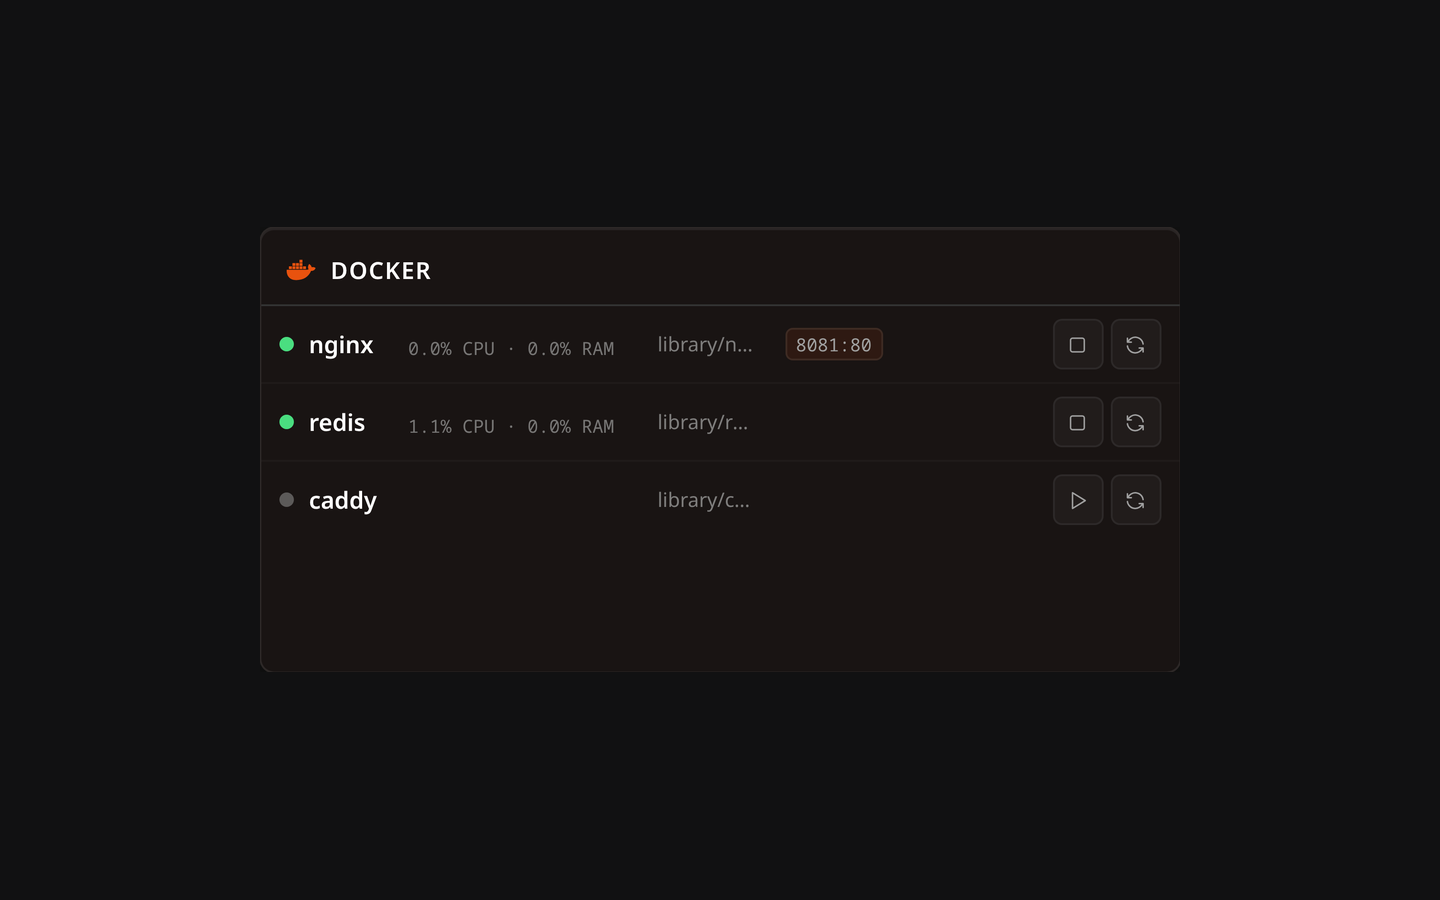
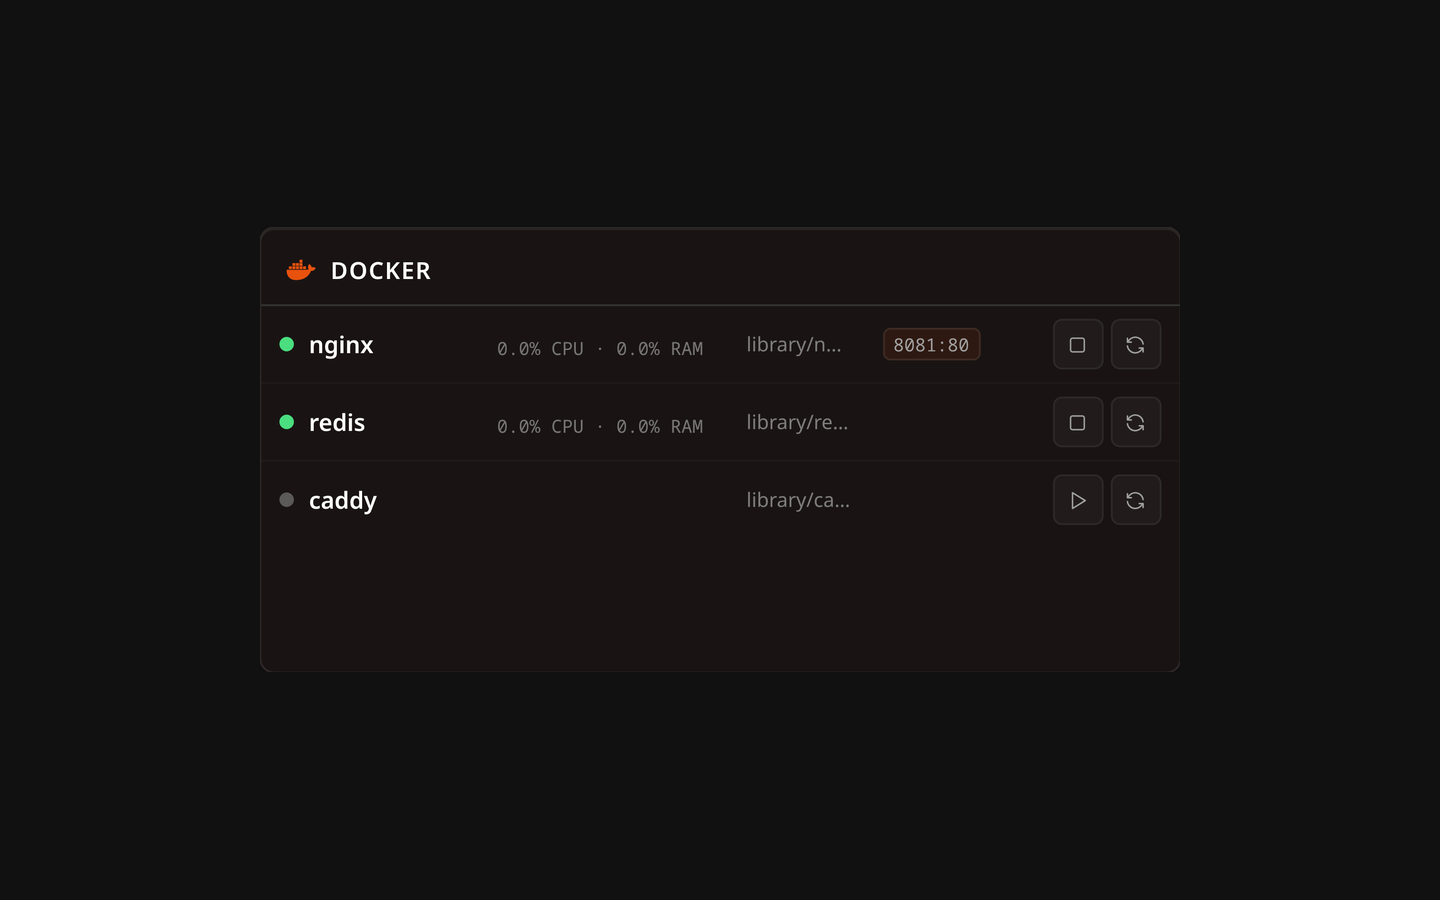
fix(docker): the ports column takes what it needs and the name keeps the rest
The ports column was a fixed 110px, wide enough for the worst case of two
badges and a counter, and every row paid for it — including the many containers
that publish no ports at all. Meanwhile the container's name, the part anyone
actually reads, was the narrowest flexible column at 1.5fr against the image's
2fr, and arrived as "pap…" where the image still managed "library/n…".

The column is now measured after each render: the widest ports cell in the list,
floored at one badge so it never disappears and capped at 120px so two long
mappings cannot eat the name. Every row shares the one value, or the columns
stop lining up. The name and the image swap emphasis, 2fr against 1.4fr.

At most two badges stay on the row, as before, and the counter that stands for
the rest now names them on hover — a "+3" that will not say which three is only
a smaller way of hiding them.

Subgrid expresses this directly and was tried first. The rows carry horizontal
padding and a subgrid's tracks are positioned by its parent, so every cell
landed 10px left of its track and the name sat on top of the state dot.

diff --git a/web/src/widgets/core/DockerWidget.ts b/web/src/widgets/core/DockerWidget.ts
@@ -147,10 +147,25 @@ const CSS = `
 
 /* ── Container rows — CSS Grid layout ── */
 /* Same shape as the monitor widget's rows: a dot for state, then the name.
-   The two sit side by side on a dashboard, so they are read together. */
+   The two sit side by side on a dashboard, so they are read together.
+
+   The ports column is --ports-w, measured after each render: the widest ports
+   cell in the list, floored at one badge and capped so it can never take the
+   name's room. As a fixed 110px it charged every row for the worst case, and
+   most lists never pay it — plenty of containers publish nothing at all.
+
+   Every row must agree on the width or the columns stop lining up, which is why
+   this is one measured value rather than per-row content sizing. Subgrid would
+   express it directly and was tried; the rows carry horizontal padding, and a
+   subgrid's tracks are positioned by the parent, so the padding pushed every
+   cell 10px left of its track and the name landed on top of the state dot.
+
+   The name is also the widest flexible column now. It used to be 1.5fr against
+   the image's 2fr, so the part people read was narrower than the part they
+   don't — the image is abbreviated to library/n... either way. */
 .container-row {
     display: grid;
-    grid-template-columns: 8px minmax(0, 1.5fr) 130px minmax(0, 2fr) 110px 90px;
+    grid-template-columns: 8px minmax(0, 2fr) 130px minmax(0, 1.4fr) var(--ports-w, 56px) 90px;
     align-items: center;
     gap: 0 8px;
     padding: 7px 10px;
@@ -261,7 +276,8 @@ const CSS = `
 .cell-ports {
     display: flex; flex-wrap: nowrap; gap: 3px;
     align-items: center; min-width: 0;
-    overflow: hidden; padding-right: 8px;
+    overflow: hidden;
+    /* No padding of its own: the grid's column gap already separates it. */
 }
 .port-badge {
     background: var(--surface-hover, rgba(128,128,128,0.08));
@@ -710,18 +726,21 @@ class DockerWidget extends HTMLElement {
             }
         }
 
+        const label = (p: DockerPort) => (p.PrivatePort && p.PrivatePort !== p.PublicPort
+            ? `${p.PublicPort}:${p.PrivatePort}`
+            : `${p.PublicPort}`);
+
+        // Two at most on the row. Any more would push the column wide enough to
+        // start costing the container's name, which is the part being read.
         const show = unique.slice(0, 2);
-        const rest = unique.length - show.length;
+        const hidden = unique.slice(2);
 
-        const badges = show.map(p => {
-            const label = p.PrivatePort && p.PrivatePort !== p.PublicPort
-                ? `${p.PublicPort}:${p.PrivatePort}`
-                : `${p.PublicPort}`;
-            return `<span class="port-badge">${esc(label)}</span>`;
-        }).join('');
+        const badges = show.map(p => `<span class="port-badge">${esc(label(p))}</span>`).join('');
 
-        const moreBadge = rest > 0
-            ? `<span class="port-badge more">+${rest}</span>`
+        // The rest are counted, and named on hover — a "+3" that will not say
+        // which three is just a smaller way of hiding them.
+        const moreBadge = hidden.length > 0
+            ? `<span class="port-badge more" title="${esc(hidden.map(label).join(', '))}">+${hidden.length}</span>`
             : '';
 
         return badges + moreBadge;
@@ -810,6 +829,27 @@ class DockerWidget extends HTMLElement {
         `;
 
         this.bindEvents();
+        this.fitPortsColumn();
+    }
+
+    /**
+     * Sizes the ports column to the widest row that actually has ports.
+     *
+     * Measured rather than guessed: the badges are monospaced but the label is
+     * anything from "80" to "65535:65535", and a fixed track has to assume the
+     * worst for every row in the list. Floored at one badge so the column does
+     * not disappear on a list where nothing publishes a port, and capped so a
+     * container with two long mappings cannot eat into the name — which is the
+     * part being read.
+     */
+    private fitPortsColumn(): void {
+        const body = this.shadowRoot?.getElementById('body');
+        if (!body) return;
+        const cells = body.querySelectorAll<HTMLElement>('.cell-ports');
+        let widest = 0;
+        for (const cell of cells) widest = Math.max(widest, cell.scrollWidth);
+        const width = Math.min(120, Math.max(56, Math.ceil(widest)));
+        body.style.setProperty('--ports-w', `${width}px`);
     }
 
     private renderContainer(
